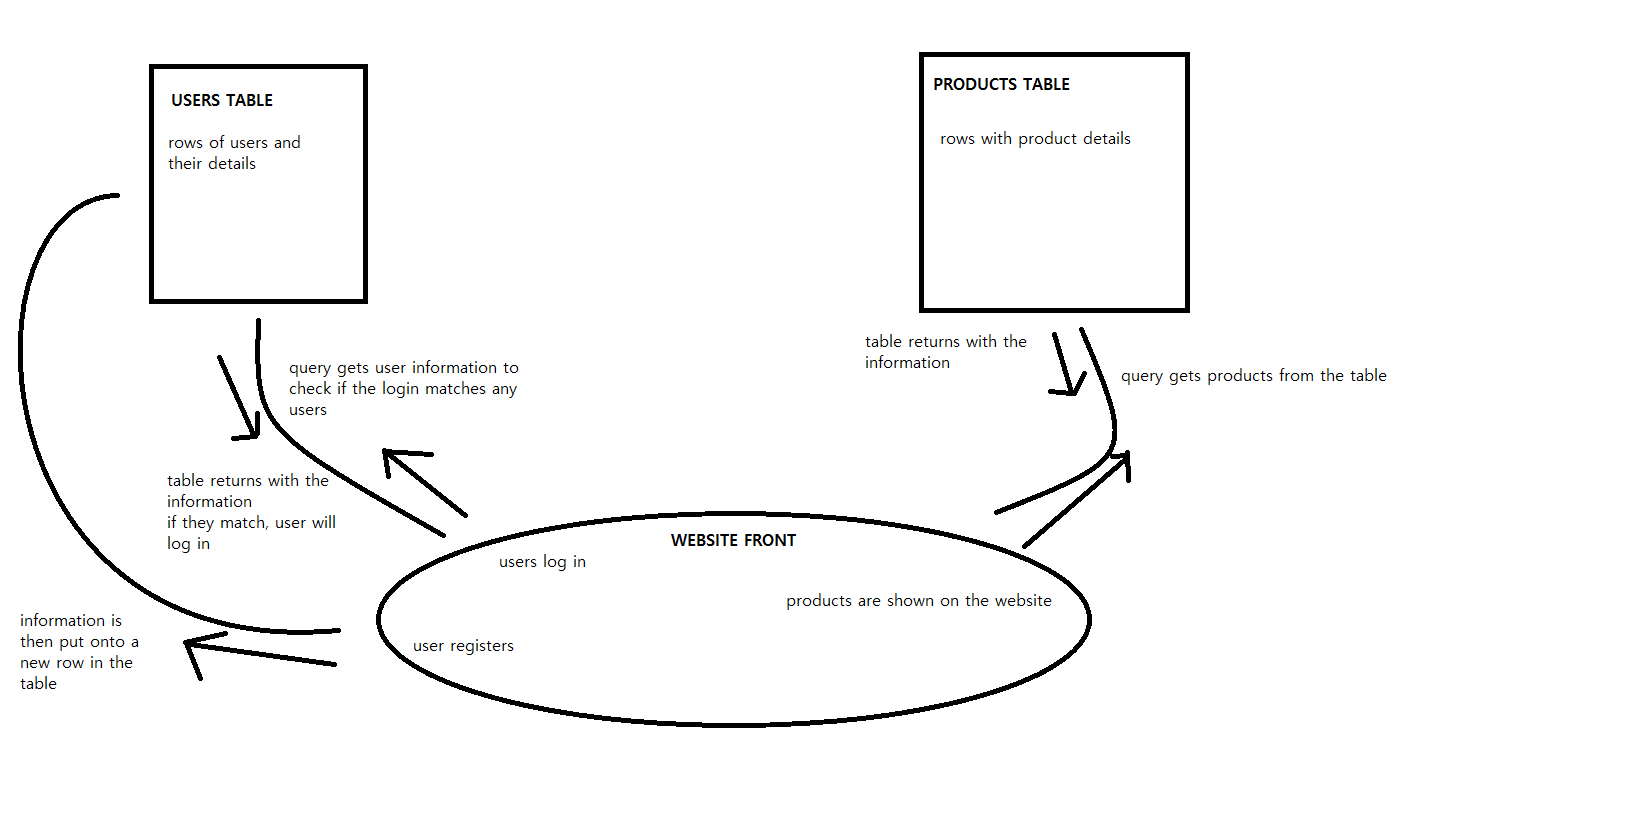
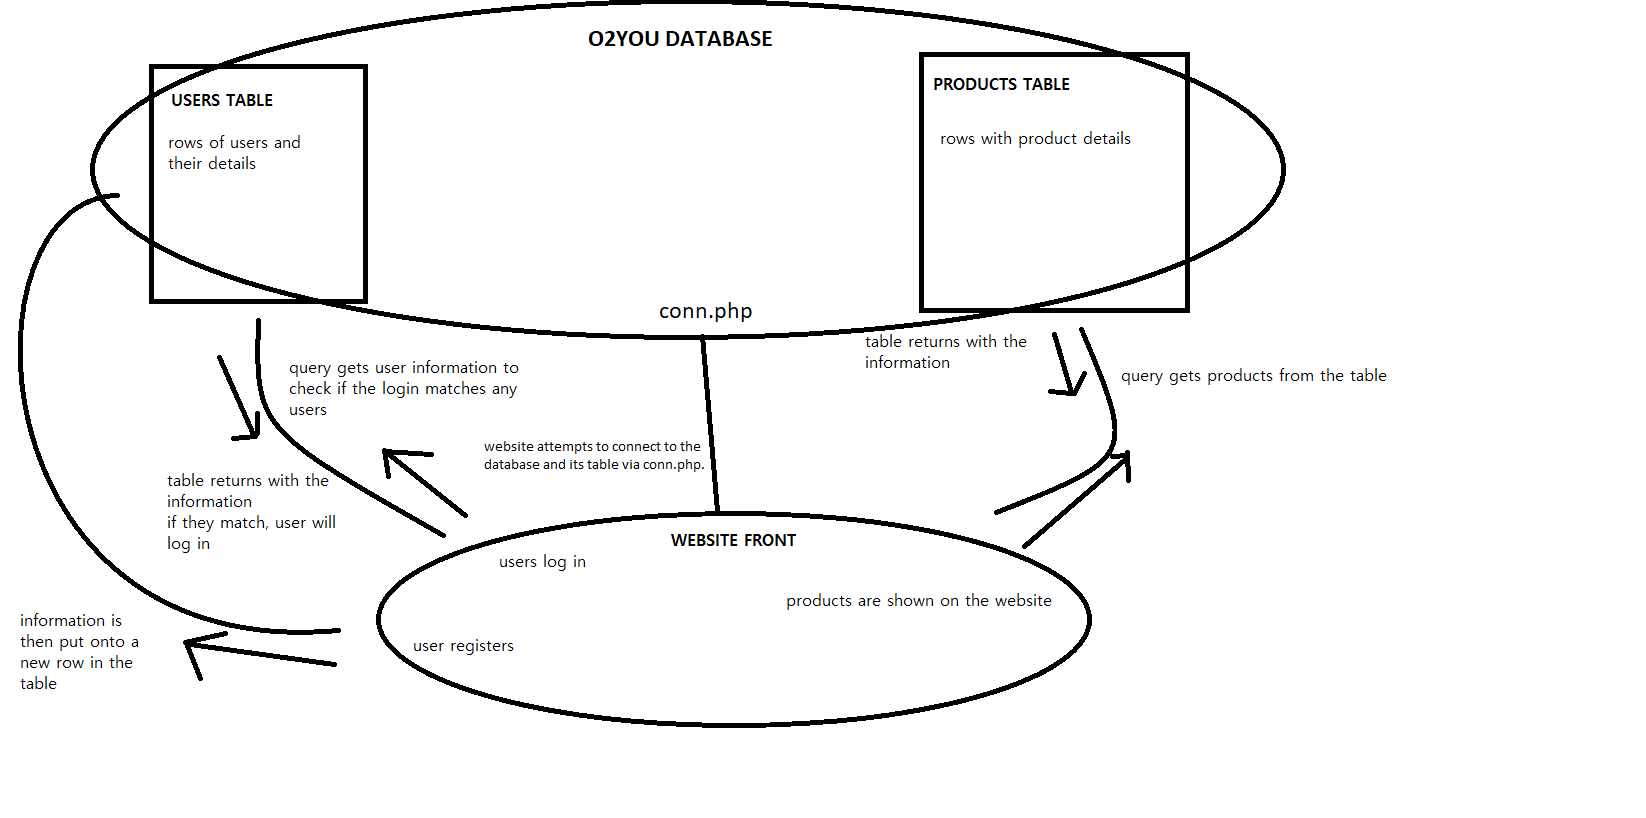
Changes due to DB testing
Max length of each input was changed from 255 to 128 as I feel as the old max number was inappropriate and was too large. This change can be seen on the pages with input.
New SQL file to reflect this change as well.
Flowchart was updated as it forgot a crucial piece of detail: connection script.

diff --git a/registration.php b/registration.php
@@ -30,12 +30,12 @@ if (isset($_POST['sign-up'])) {
 	<div class="form-container">
 		<form id="registration"	name="registration-form" method="post" action="" enctype="multipart/form-data">
 			<h1 class="form-title">Registration</h1>
-			<div class="form-element"><input name="first-name" type="text" required="required" class="text-field" maxlength="255" placeholder="First Name"></div>
-			<div class="form-element"><input name="last-name" type="text" required="required" class="text-field" maxlength="255" placeholder="Last Name"></div>
-			<div class="form-element"><input name="address" type="text" required="required" class="text-field" maxlength="255" placeholder="Address"></div>
-			<div class="form-element"><input name="email" type="email" required="required" class="text-field" maxlength="255" placeholder="Email"></div>
-			<div class="form-element"><input name="password" type="password" required="required" class="text-field" maxlength="255" placeholder="Password"></div>
-			<div class="form-element"><input name="confirm-password" type="password" required="required" class="text-field" maxlength="255" placeholder="Confirm Password"></div>
+			<div class="form-element"><input name="first-name" type="text" required="required" class="text-field" maxlength="128" placeholder="First Name"></div>
+			<div class="form-element"><input name="last-name" type="text" required="required" class="text-field" maxlength="128" placeholder="Last Name"></div>
+			<div class="form-element"><input name="address" type="text" required="required" class="text-field" maxlength="128" placeholder="Address"></div>
+			<div class="form-element"><input name="email" type="email" required="required" class="text-field" maxlength="128" placeholder="Email"></div>
+			<div class="form-element"><input name="password" type="password" required="required" class="text-field" maxlength="128" placeholder="Password"></div>
+			<div class="form-element"><input name="confirm-password" type="password" required="required" class="text-field" maxlength="128" placeholder="Confirm Password"></div>
 			<p class="error"><?php
 				// If the sign up button is pressed then insert all the info into the db on a new row when password and confirm password match.
 				if (isset($_POST['sign-up'])) {

diff --git a/updateprofile.php b/updateprofile.php
@@ -37,11 +37,11 @@ include "conn.php";
 	<div class="form-container">
 		<form id="update-profile" name="update-form" method="post" action="">
 			<h1 class="form-title">Update Profile</h1>
-			<div class="form-element"><input name="first-name" type="text" required="required" class="text-field" maxlength="255" value="<?php echo $_SESSION["firstname"]; ?>"></div>
-			<div class="form-element"><input name="last-name" type="text" required="required" class="text-field" maxlength="255" value="<?php echo $_SESSION["lastname"]; ?>"></div>
-			<div class="form-element"><input name="email" type="email" required="required" class="text-field" maxlength="255" value="<?php echo $_SESSION["email"]; ?>"></div>
-			<div class="form-element"><input name="password" type="password" required="required" class="text-field" maxlength="255" value="<?php echo $_SESSION["password"]; ?>"></div>
-			<div class="form-element"><input name="address" type="text" required="required" class="text-field" maxlength="255" value="<?php echo $_SESSION["address"]; ?>"></div>
+			<div class="form-element"><input name="first-name" type="text" required="required" class="text-field" maxlength="128" value="<?php echo $_SESSION["firstname"]; ?>"></div>
+			<div class="form-element"><input name="last-name" type="text" required="required" class="text-field" maxlength="128" value="<?php echo $_SESSION["lastname"]; ?>"></div>
+			<div class="form-element"><input name="email" type="email" required="required" class="text-field" maxlength="128" value="<?php echo $_SESSION["email"]; ?>"></div>
+			<div class="form-element"><input name="password" type="password" required="required" class="text-field" maxlength="128" value="<?php echo $_SESSION["password"]; ?>"></div>
+			<div class="form-element"><input name="address" type="text" required="required" class="text-field" maxlength="128" value="<?php echo $_SESSION["address"]; ?>"></div>
 			<p class="error"><?php
 				// If the update profile button is pressed.
 				if (isset($_POST['update-profile'])) {

diff --git a/login.php b/login.php
@@ -35,8 +35,8 @@ if (isset($_POST['log-in'])) {
 		<!-- Login Form -->
 		<form id="login" name="login-form" method="post" action="">
 			<h1 class="form-title">Login</h1>
-			<div class="form-element"><input name="email" type="email" required="required" class="text-field" maxlength="255" placeholder="Email"></div>
-			<div class="form-element"><input name="password" type="password" required="required" class="text-field" maxlength="255" placeholder="Password"></div>
+			<div class="form-element"><input name="email" type="email" required="required" class="text-field" maxlength="128" placeholder="Email"></div>
+			<div class="form-element"><input name="password" type="password" required="required" class="text-field" maxlength="128" placeholder="Password"></div>
 			<p class="error"><?php
 			// Checks if inputted login/password matches to an entry in the db.
 			if (isset($_POST['log-in'])) {
